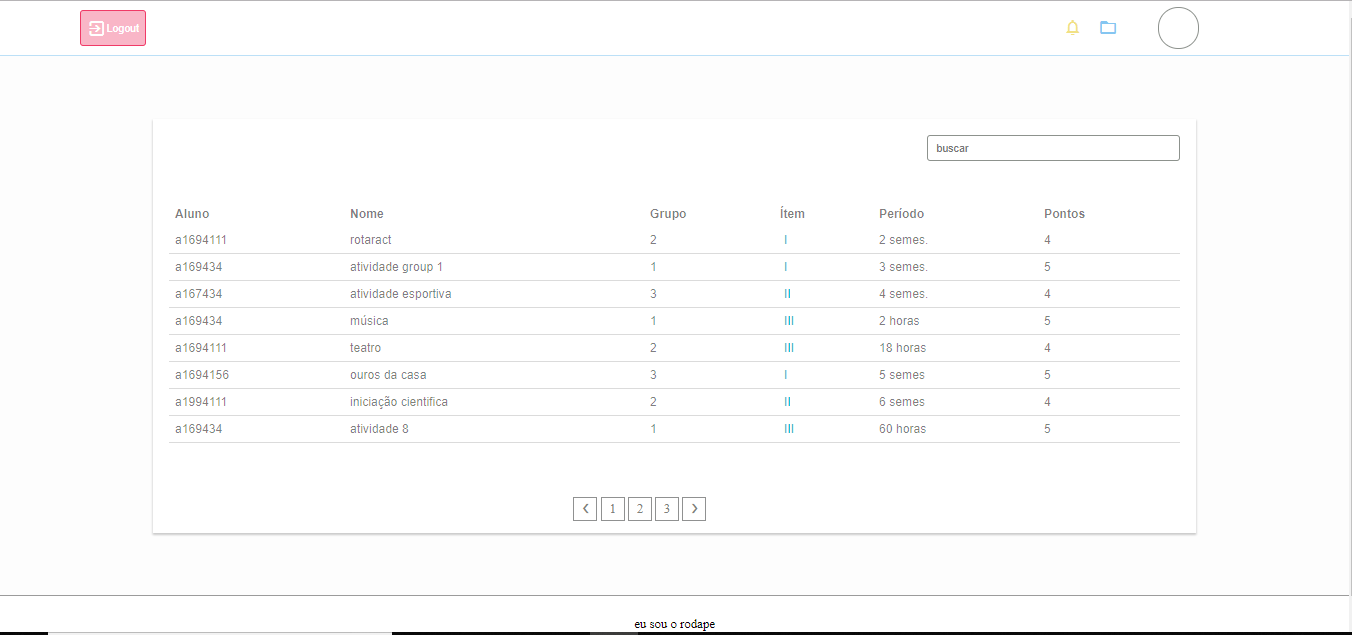
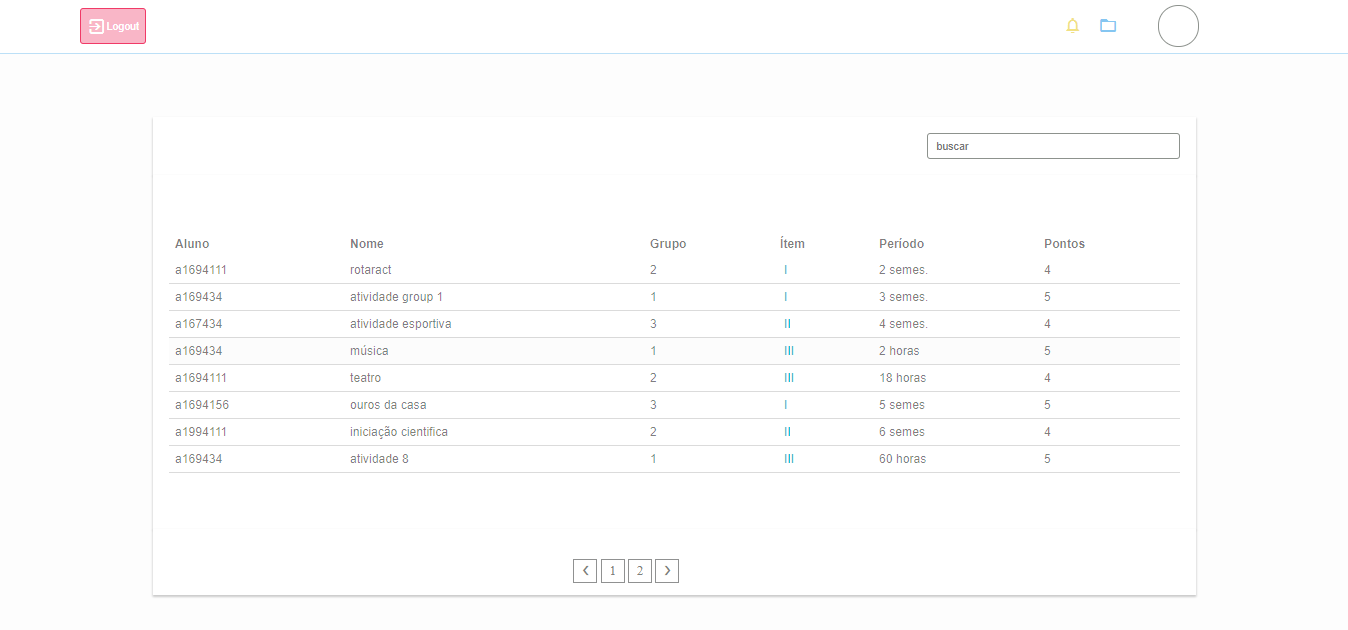
refactored table list

diff --git a/items/Professor/DocumentListAllStudent/DocumentListAllStudent.html b/items/Professor/DocumentListAllStudent/DocumentListAllStudent.html
@@ -41,6 +41,7 @@
     border-collapse: collapse;
     width: 100%;
     color: rgba(0, 0, 0, 0.5);
+  
   }
   td, th {
    text-align: left;
@@ -55,10 +56,18 @@
   td:hover{
    cursor: pointer;
   }
-  tbody {
-   margin-top: 20px;
+  .header-table, .footer-table {
+    width: 75%;
+    display: flex;
+    flex-direction: row;
+    justify-content: flex-end;
+    margin: 0 auto;
+    padding: 20px;
+    background-color: white;
+    box-shadow: 0px 2px 2px 0px rgba(0,0,0,0.2);
   }
   .search-sender {
+    align-self: flex-end;
     width: 25%;
     display: flex;
     flex-direction: row;
@@ -77,7 +86,7 @@
     display: flex;
     flex-direction: row;
   }
-  body{
+  body {
     display: flex;
     flex-direction: column;
     margin: 0;
@@ -268,10 +277,12 @@
     </div>
   </nav>
   <div class="container">
-    <div id="entry-box">
+    <div class="header-table">  
       <div class="search-sender">
         <input type="text" placeholder="buscar">
       </div>
+    </div>
+    <div id="entry-box">
      <div class="table">
       <table id="app">
        <thead>
@@ -302,14 +313,16 @@
        </tbody>
       </table>
     </div>
+  </div>
+  <div class="footer-table">
     <div class="pagination">
         <span>&#10094;</span>
         <span>1</span>
-        <span>2</span>
-        <span>3</span>
+        <span v-on:click="replaceList">2</span>
         <span>&#10095;</span>
       </div>
     </div>
+  </div>
   </div>
   <footer>
     <p>eu sou o rodape</p>
@@ -327,7 +340,7 @@
         {id: 4, student:'a1694111', name: 'teatro', group: 2, period: '18 horas', item: 'III', score: 4},
         {id: 5, student:'a1694156', name: 'ouros da casa', group: 3, period: '5 semes', item: 'I', score: 5},
         {id: 6, student:'a1994111', name: 'iniciação cientifica', group: 2, period: '6 semes', item: 'II', score: 4},
-        {id: 7, student:'a169434', name: 'atividade 8', group: 1, period: '60 horas', item: 'III', score: 5}
+        {id: 7, student:'a169434', name: 'atividade 8', group: 1, period: '60 horas', item: 'III', score: 5},
       ]
     }
   })
